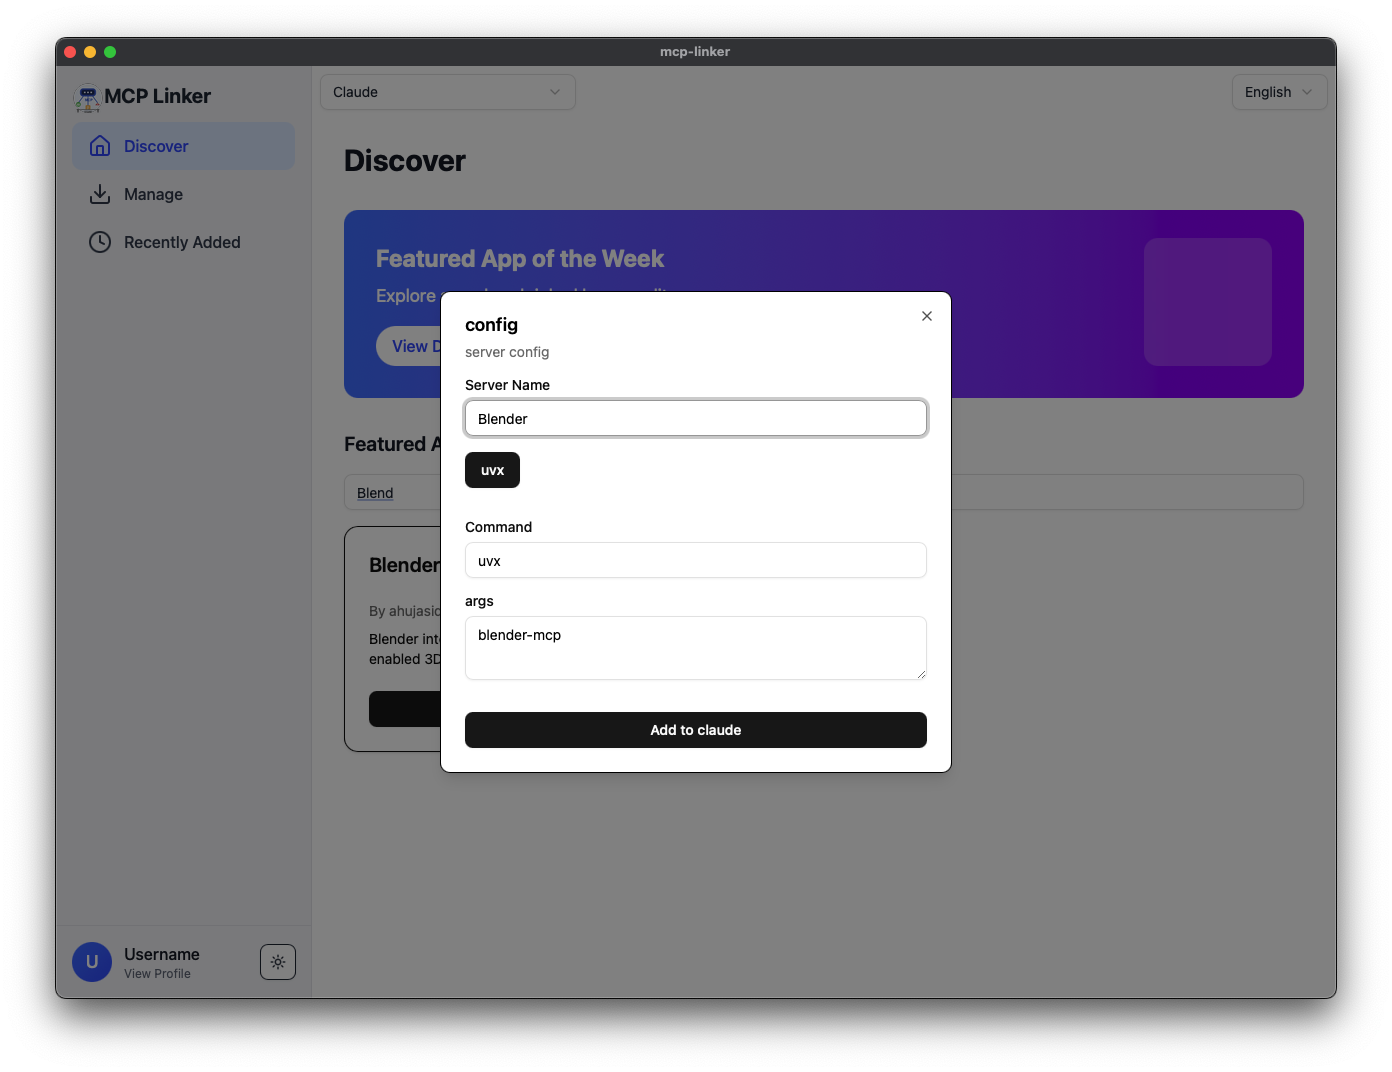
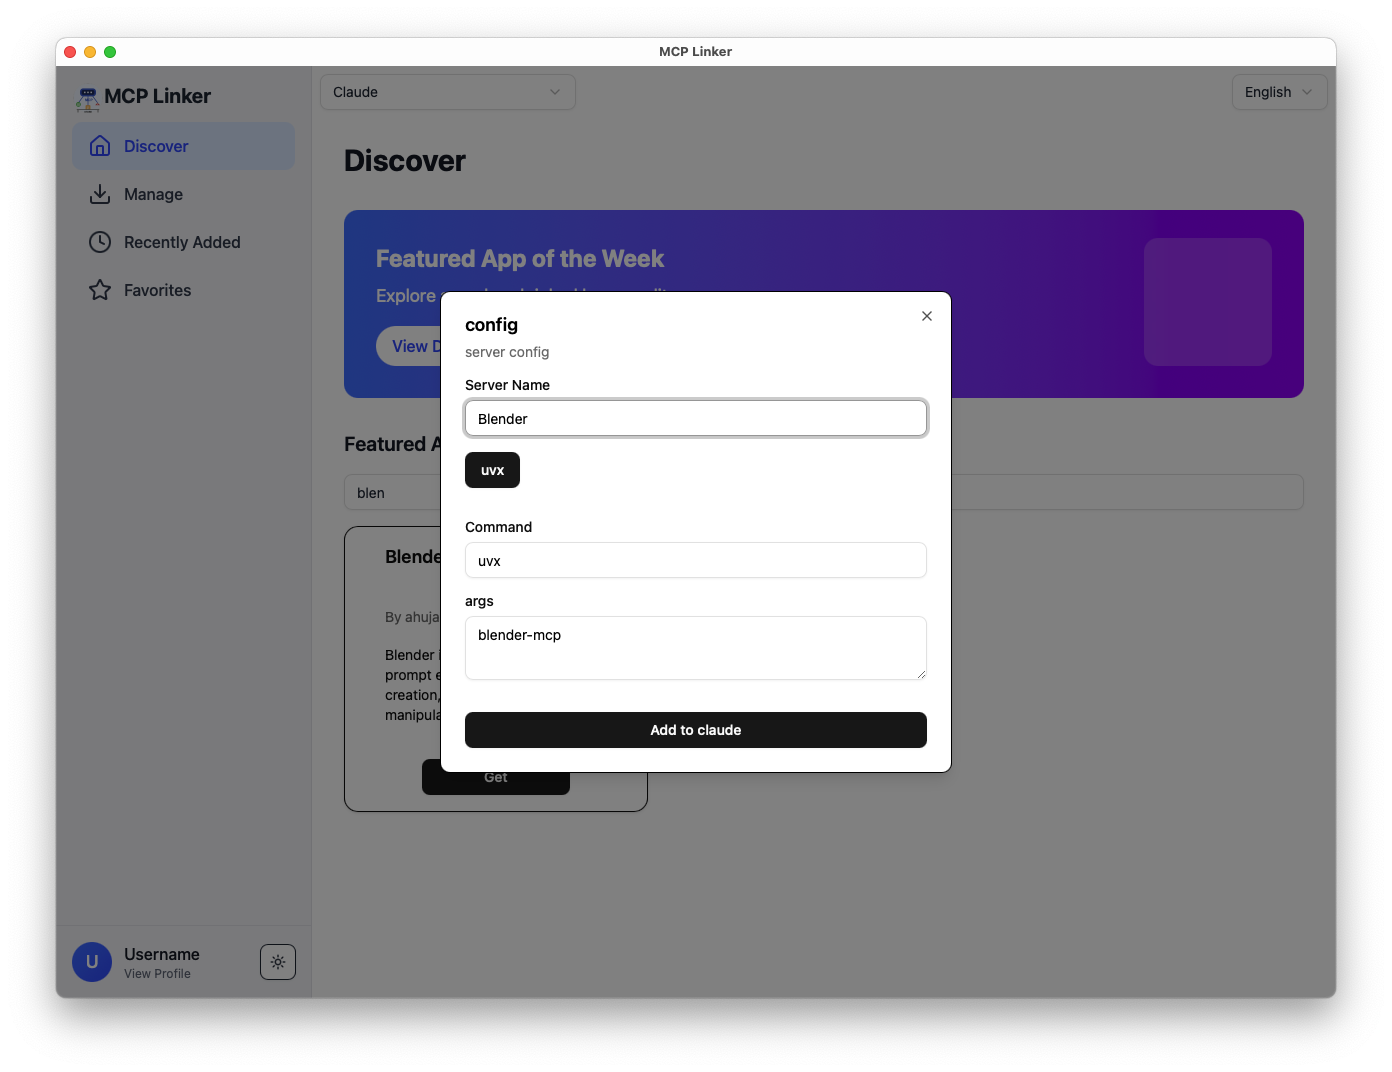
chore: bump to v1.2.0, rename to mcp-linker, and update dependencies
- Introduce favorites and recent.
- Renamed project from mcp-store to mcp-linker.
- Updated react-router to 7.5.3 and tauri/api to 2.5.0.
- Improved PowerShell handling and PATH logic for Windows.
- Updated README (EN/JP/CN) with navigation and requirements.
- Added new MIT License and updated screenshots.

refactor: improve PowerShell command handling for Windows

- Updated the command execution method for installing packages and checking command existence on Windows.
- Changed from using PowerShell's `Get-Command` to `cmd`'s `where` for command existence checks.
- Streamlined PowerShell command creation by removing unnecessary creation flags.

diff --git a/src/views/favorites.tsx b/src/views/favorites.tsx
@@ -8,6 +8,11 @@ interface Props {
   selectedPath: string;
 }
 
+// Cache for server list
+let cachedServerList: { servers: ServerType[] } | null = null;
+let lastFetchTime = 0;
+const CACHE_DURATION = 5 * 60 * 1000; // 5 minutes
+
 export default function FavoritesPage({ selectedApp, selectedPath }: Props) {
   const [favorites, setFavorites] = useState<string[]>([]);
   const [serverList, setServerList] = useState<{ servers: ServerType[] }>({
@@ -15,16 +20,31 @@ export default function FavoritesPage({ selectedApp, selectedPath }: Props) {
   });
 
   useEffect(() => {
-    fetchServers()
-      .then((data) => setServerList(data))
-      .catch((err) => console.error("Failed to load servers", err));
-  }, []);
+    const loadData = async () => {
+      // Load favorites first
+      const favs = JSON.parse(
+        localStorage.getItem("favorites") || "[]",
+      ) as string[];
+      setFavorites(favs);
 
-  useEffect(() => {
-    const favs = JSON.parse(
-      localStorage.getItem("favorites") || "[]",
-    ) as string[];
-    setFavorites(favs);
+      // Check if we have cached data that's still valid
+      const now = Date.now();
+      if (cachedServerList && now - lastFetchTime < CACHE_DURATION) {
+        setServerList(cachedServerList);
+        return;
+      }
+
+      try {
+        const data = await fetchServers();
+        cachedServerList = data;
+        lastFetchTime = now;
+        setServerList(data);
+      } catch (err) {
+        console.error("Failed to load servers", err);
+      }
+    };
+
+    loadData();
   }, []);
 
   const favoriteServers = serverList.servers.filter((server) =>

diff --git a/src/components/Sidebar.tsx b/src/components/Sidebar.tsx
@@ -25,7 +25,7 @@ export const Sidebar = ({
             className="flex text-xl font-bold text-gray-800 dark:text-gray-100 mb-2"
           >
             <img
-              src="../src/assets/logo.png"
+              src="/logo.png"
               alt="Logo"
               style={{ width: 32, height: 32 }}
             />

diff --git a/src-tauri/src/lib.rs b/src-tauri/src/lib.rs
@@ -25,14 +25,25 @@ fn update_env_path() {
     let local_bin = format!("{}/.local/bin", home);
     let current_path = env::var("PATH").unwrap_or_default();
 
-    #[cfg(not(target_os = "windows"))]
-    let new_paths = ["/opt/homebrew/bin", "/usr/local/bin", &local_bin];
-
-    #[cfg(target_os = "windows")]
-    let new_paths = [&local_bin];
-
-    let updated_path = format!("{}:{}", new_paths.iter().map(|s| s.as_str()).collect::<Vec<_>>().join(":")
-    , current_path);
+    let new_paths: Vec<String> = if cfg!(target_os = "windows") {
+        vec![local_bin]
+    } else {
+        vec![
+            "/opt/homebrew/bin".into(),
+            "/usr/local/bin".into(),
+            local_bin,
+        ]
+    };
+    
+    let separator = if cfg!(target_os = "windows") { ";" } else { ":" };
+    
+    let updated_path = format!(
+        "{}{}{}",
+        new_paths.join(separator),
+        separator,
+        current_path
+    );
+    
     env::set_var("PATH", &updated_path);
 }
 

diff --git a/src-tauri/src/installer.rs b/src-tauri/src/installer.rs
@@ -134,11 +134,8 @@ pub fn install_command(
 #[tauri::command]
 pub fn check_command_exists(command: String) -> Result<bool, String> {
     let exists = match std::env::consts::OS {
-        "windows" => Command::new("powershell")
-            .args(&[
-                "-Command",
-                &format!("Get-Command {} -ErrorAction SilentlyContinue", command),
-            ])
+        "windows" => Command::new("cmd")
+            .args(&["/C", "where", &command])
             .output()
             .map(|output| output.status.success())
             .unwrap_or(false),
@@ -151,4 +148,3 @@ pub fn check_command_exists(command: String) -> Result<bool, String> {
 
     Ok(exists)
 }
-

diff --git a/src-tauri/src/installer/uv_installer.rs b/src-tauri/src/installer/uv_installer.rs
@@ -1,5 +1,8 @@
 use std::process::Command;
 
+#[cfg(target_os = "windows")]
+use std::os::windows::process::CommandExt;
+
 pub fn install_uv_by_curl() -> Result<String, String> {
     #[cfg(any(target_os = "linux", target_os = "macos"))]
     {

diff --git a/docs/README.ja-JP.md b/docs/README.ja-JP.md
@@ -34,13 +34,26 @@
 ✅ ワンクリックで MCP サーバーを追加  
 ✅ 複数の MCP サーバー構成をサポート  
 ✅ オープンソースでコミュニティ主導  
+✅ お気に入り：サーバーをお気に入りとしてマークし、すばやくアクセス可能  
+✅ 最近使用したもの：最近追加したサーバーを自動的に保存して表示  
+✅ Windows対応：Windowsでも動作（実験的）  
+✅ エラー処理とインストールガイドを改善  
 
 🗨 [フィードバックまたは質問](https://github.com/milisp/mcp-linker/discussions)
+
+## 🔧 必要な環境
+
+このプロジェクトを実行するには、以下のツールがインストールされていることを確認してください：
+
+- Node.js
+- bun（または pnpm）
+- Rust ツールチェーン（安定版、Tauri 用）
 
 ## インストール
 
 ```bash
 git clone https://github.com/milisp/mcp-linker
+cd mcp-linker
 bun install
 bun tauri dev
 # yarn install
@@ -49,11 +62,18 @@ bun tauri dev
 # pnpm tauri dev
 ```
 
+> **注意：** 問題が発生した場合は、`package-lock.json` ファイルと `node_modules` ディレクトリを削除してから、次のコマンドを実行してください：
+> ```bash
+> npm install --legacy-peer-deps
+> ```
+
 ## 🚀 クイックスタート
 
 1. **ブラウズ＆選択**：利用可能なリストから MCP サーバーを選択します。  
 2. **インストール**：**「取得」** をクリックしてサーバーの構成を表示します。  
 3. **アクティベート**：**「追加」** をクリックして MCP クライアントに統合します。  
+
+> **ヒント：** お気に入りや最近使用したサーバーは、利便性のためローカルに保存されます！
 
 ## 🌐 公式サーバー
 
@@ -74,7 +94,7 @@ bun tauri dev
 
 ## 🤝 コントリビュート
 
-コントリビュートを歓迎します！自分の MCP サーバーを追加するには：
+コントリビュートを歓迎します！以下の手順で貢献できます：
 
 1. **このリポジトリをフォーク＆クローン** します。
 2. **プルリクエストを送信** して変更を提出します。
@@ -84,11 +104,8 @@ bun tauri dev
 このプロジェクトを改善してくれた貢献者の皆様、ありがとうございます：
 
 - [@eltociear](https://github.com/eltociear) — 日本語翻訳
+- [@devilcoder01](https://github.com/devilcoder01) — Windows ビルドの互換性とプロジェクトセットアップ手順の改善
 
 ---
 
 [![Star History Chart](https://api.star-history.com/svg?repos=milisp/mcp-linker&type=Date)](https://star-history.com/#milisp/mcp-linker)
-
-## ライセンス
-
-BSD

diff --git a/docs/README.zh-CN.md b/docs/README.zh-CN.md
@@ -24,6 +24,14 @@
 
 >轻松将 **Model Context Protocol (MCP) 服务器** 添加到你的 MCP 客户端（例如 Claude Cursor windsurf...），只需两步操作：**获取** 与 **添加**。支持 macos win
 
+## 🔧 环境要求
+
+在运行本项目之前，请确保已安装以下工具：
+
+- Node.js
+- bun（或 pnpm）
+- Rust 工具链（稳定版），用于构建 Tauri 应用
+
 ## 🔽 Download MCP Linker
 
 👉 [在 🐙Gumroad 下载](https://wei40680.gumroad.com/l/jdbuvc?wanted=true)
@@ -34,6 +42,10 @@
 ✅ 一键添加 MCP 服务器
 ✅ 支持多个 MCP 服务器配置  
 ✅ 开源并由社区驱动  
+✅ 收藏夹功能：可将服务器加入收藏，便于快速访问  
+✅ 最近使用：自动保存并展示最近添加的服务器  
+✅ 支持 Windows：现已支持 Windows 平台（实验性）  
+✅ 更好的错误处理与安装指南  
 
 🗨 [反馈或提问](https://github.com/milisp/mcp-linker/discussions)
 
@@ -41,6 +53,7 @@
 
 ```bash
 git clone https://github.com/milisp/mcp-linker
+cd mcp-linker
 bun install
 bun tauri dev
 # yarn install
@@ -49,11 +62,18 @@ bun tauri dev
 # pnpm tauri dev
 ```
 
+> **注意：** 如遇安装问题，可尝试删除 `package-lock.json` 和 `node_modules` 目录，然后执行以下命令：
+> ```bash
+> npm install --legacy-peer-deps
+> ```
+
 ## 🚀 快速开始
 
 1. **浏览与选择**：从可用服务器列表中选择一个 MCP 服务器。  
 2. **安装**：点击 **“获取”** 查看服务器配置。  
 3. **激活**：点击 **“添加”** 将其集成到你的 MCP 客户端。  
+
+> 💡 提示：收藏与最近使用的服务器会被保存在本地，方便下次使用！
 
 ## 🌐 官方服务器
 
@@ -82,11 +102,8 @@ bun tauri dev
 感谢以下贡献者对本项目的改进：
 
 - [@eltociear](https://github.com/eltociear) — 日文翻译
+- [@devilcoder01](https://github.com/devilcoder01) — 改进了 Windows 兼容性与项目安装说明
 
 ---
 
 [![Star History Chart](https://api.star-history.com/svg?repos=milisp/mcp-linker&type=Date)](https://star-history.com/#milisp/mcp-linker)
-
-## 许可协议
-
-BSD

diff --git a/README.md b/README.md
@@ -34,6 +34,10 @@
 ✅ One-click to add MCP servers  
 ✅ Supports multiple MCP server configurations  
 ✅ Open-source and community-driven  
+✅ Favorites: Mark servers as favorites for quick access  
+✅ Recently Used: Automatically save and display recently added servers  
+✅ Windows Support: Now also works on Windows (experimental)  
+✅ Improved error handling and installation guide
 
 🗨 [Feedback or Questions](https://github.com/milisp/mcp-linker/discussions)
 
@@ -42,13 +46,14 @@
 Before running this project, ensure you have the following installed:
 
 - Node.js 
-- bun 
+- bun (or pnpm)
 - Rust toolchain (stable) for Tauri
 
 ## Install
 
 ```bash
 git clone https://github.com/milisp/mcp-linker
+cd mcp-linker
 bun install
 bun tauri dev
 # yarn install
@@ -67,7 +72,8 @@ bun tauri dev
 
 1. **Browse & Select**: Choose an MCP server from the available list.  
 2. **Install**: Click **"Get"** to show configure of server.  
-3. **Activate**: Click **"Add"** to integrate it with your MCP client.  
+3. **Activate**: Click **"Add"** to integrate it with your MCP client.
+> **Tip:** Favorites and recently used servers are saved locally for your convenience!
 
 ## 🌐 Official Servers
 
@@ -88,7 +94,7 @@ Check out the list of [official MCP servers](https://github.com/modelcontextprot
 
 ## 🤝 Contributing
 
-We welcome contributions! To add your own MCP server:
+We welcome contributions!:
 
 1. **Fork & Clone** this repository.
 2. **Submit a Pull Request** with your changes.
@@ -98,11 +104,8 @@ We welcome contributions! To add your own MCP server:
 Thanks to the following contributors for improving this project:
 
 - [@eltociear](https://github.com/eltociear) — Japanese translation
+- [@devilcoder01](https://github.com/devilcoder01) — improved Windows build compatibility and project setup instructions
 
 ---
 
 [![Star History Chart](https://api.star-history.com/svg?repos=milisp/mcp-linker&type=Date)](https://star-history.com/#milisp/mcp-linker)
-
-## License
-
-BSD

diff --git a/CHANGELOG.md b/CHANGELOG.md
@@ -2,6 +2,33 @@
 
 All notable changes to this project will be documented in this file.
 
+### [1.1.0] - 2025-04-29
+
+### Added
+- Introduced a favorites feature for server management.
+- Added recently used servers with persistent storage.
+- Updated server configurations with support for both remote and local sources.
+
+### Changed
+- Enhanced UI components for better usability and structure.
+- Updated styles and layout for improved user experience.
+
+### Fixed
+- Improved error handling in PowerShell commands.
+- Fixed formatting of PATH environment variables in Windows setup.
+
+### Documentation
+- Added a requirements section to README.md for easier project setup instructions.
+
+### Internal
+- Removed the i18n module, refactored translation type definitions for better type safety.
+- Updated dependencies:
+- @rollup/rollup-win32-x64-msvc to 4.40.1
+- @tauri-apps/cli to 2.5.0
+- Bumped version to 1.1.0.
+
+⸻
+
 ## [v1.0.0] - 2025-04-22
 
 ### Added
